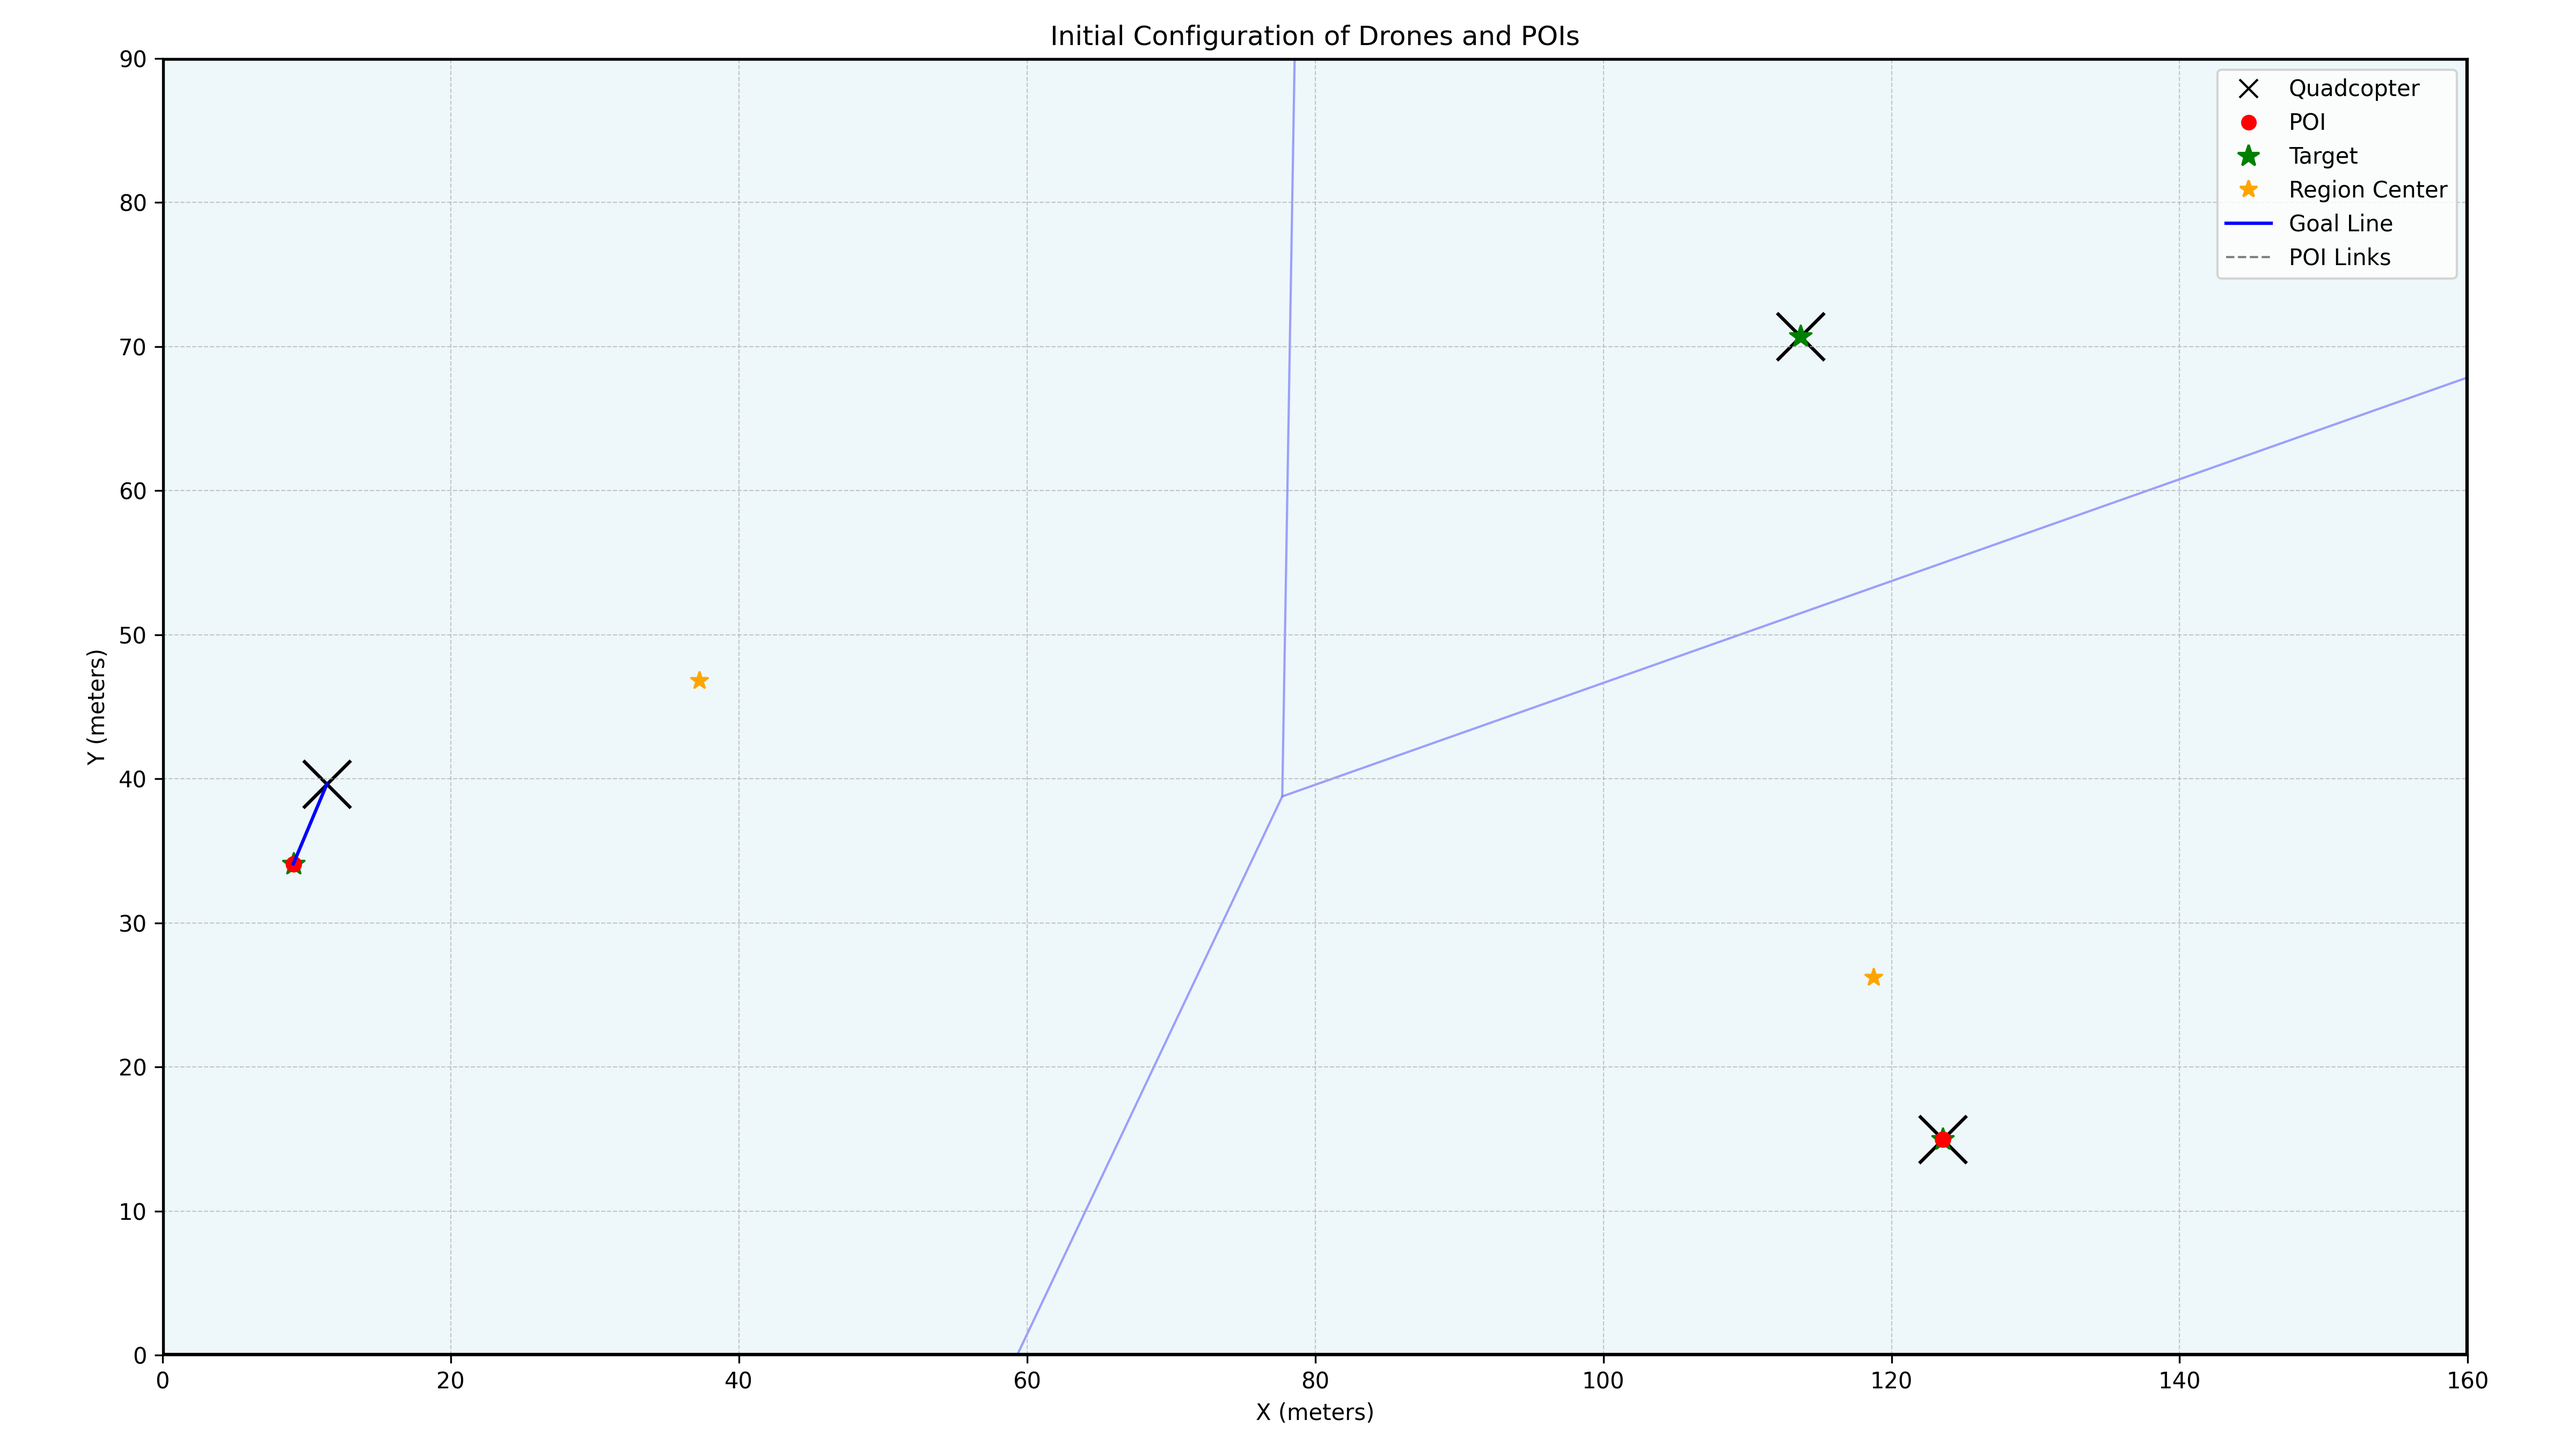
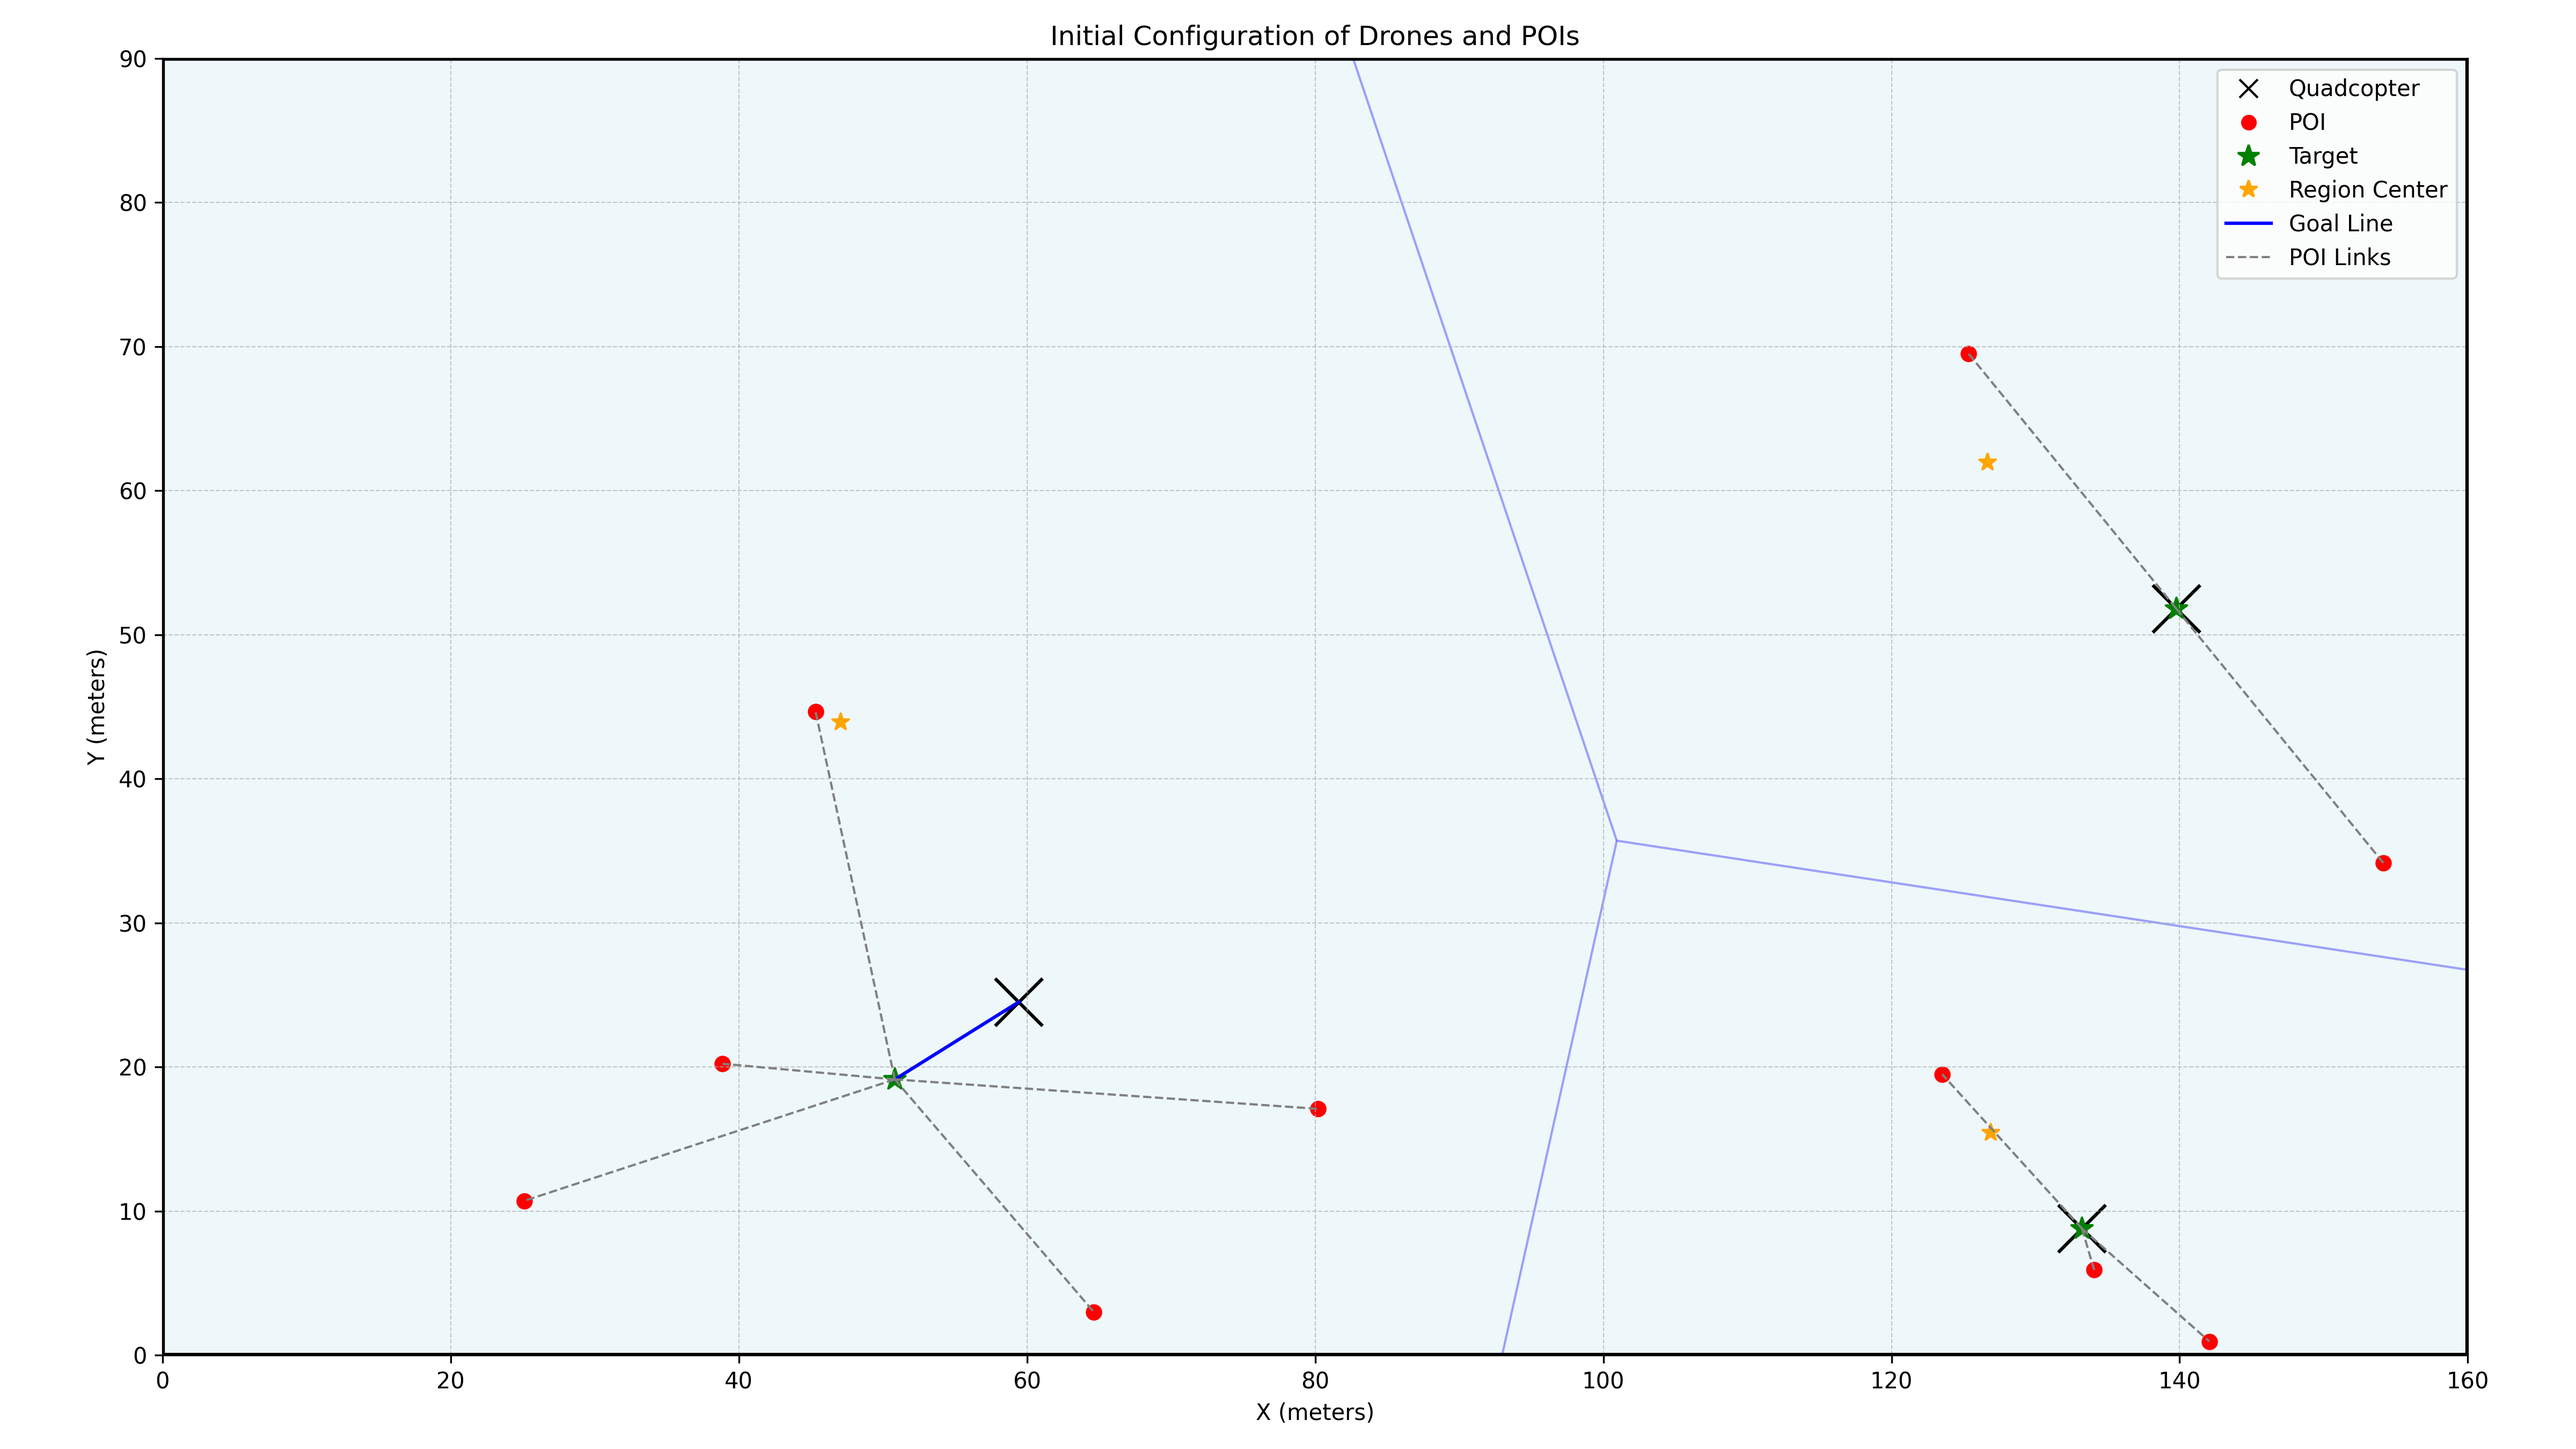
Updating Voronoi sections in each step again

diff --git a/convergence-visualisation/convergence-visualisation.py b/convergence-visualisation/convergence-visualisation.py
@@ -246,11 +246,12 @@ def generate_random_position(bounds):
     return np.random.uniform(0, bounds[0]), np.random.uniform(0, bounds[1])
 
 def simulate(bounds, num_steps=50, step_size=1.0, gif_filename="voronoi_simulation.gif"):
-    num_quad, num_fw, num_pois = 3, 0, 2
+    num_quad, num_fw, num_pois = 3, 0, 10
     drones = [Quadcopter(generate_random_position(bounds)) for _ in range(num_quad)]
     pois = [PointOfInterest(generate_random_position(bounds)) for _ in range(num_pois)]
 
-    assign_voronoi_targets(drones, pois, bounds)
+    # assign_voronoi_targets(drones, pois, bounds)  # Initial static frame
+
     draw_static(drones, pois, bounds, "voronoi_initial.png")
 
     fig, ax = plt.subplots(figsize=(16, 9))
@@ -260,13 +261,17 @@ def simulate(bounds, num_steps=50, step_size=1.0, gif_filename="voronoi_simulati
     ax.set_autoscale_on(False)
 
     def update(frame):
+        # Recompute regions, centers, and targets each step
+        assign_voronoi_targets(drones, pois, bounds)
+
+        # Move drones towards their current target (region center if no POIs)
         for drone in drones:
             if isinstance(drone, Quadcopter):
-                # Always move towards the assigned target (region center if no POIs)
-                start = drone.target
-                if start is not None:
-                    drone.move_towards(start, step_size)
-        draw_scene(ax, drones, pois, bounds, show_voronoi=False, use_custom_voronoi=False)
+                if drone.target is not None:
+                    drone.move_towards(drone.target, step_size)
+
+        # Redraw the scene with updated regions and targets
+        draw_scene(ax, drones, pois, bounds)
 
     anim = FuncAnimation(fig, update, frames=num_steps, interval=200)
     anim.save(gif_filename, dpi=80, writer=PillowWriter(fps=5))
